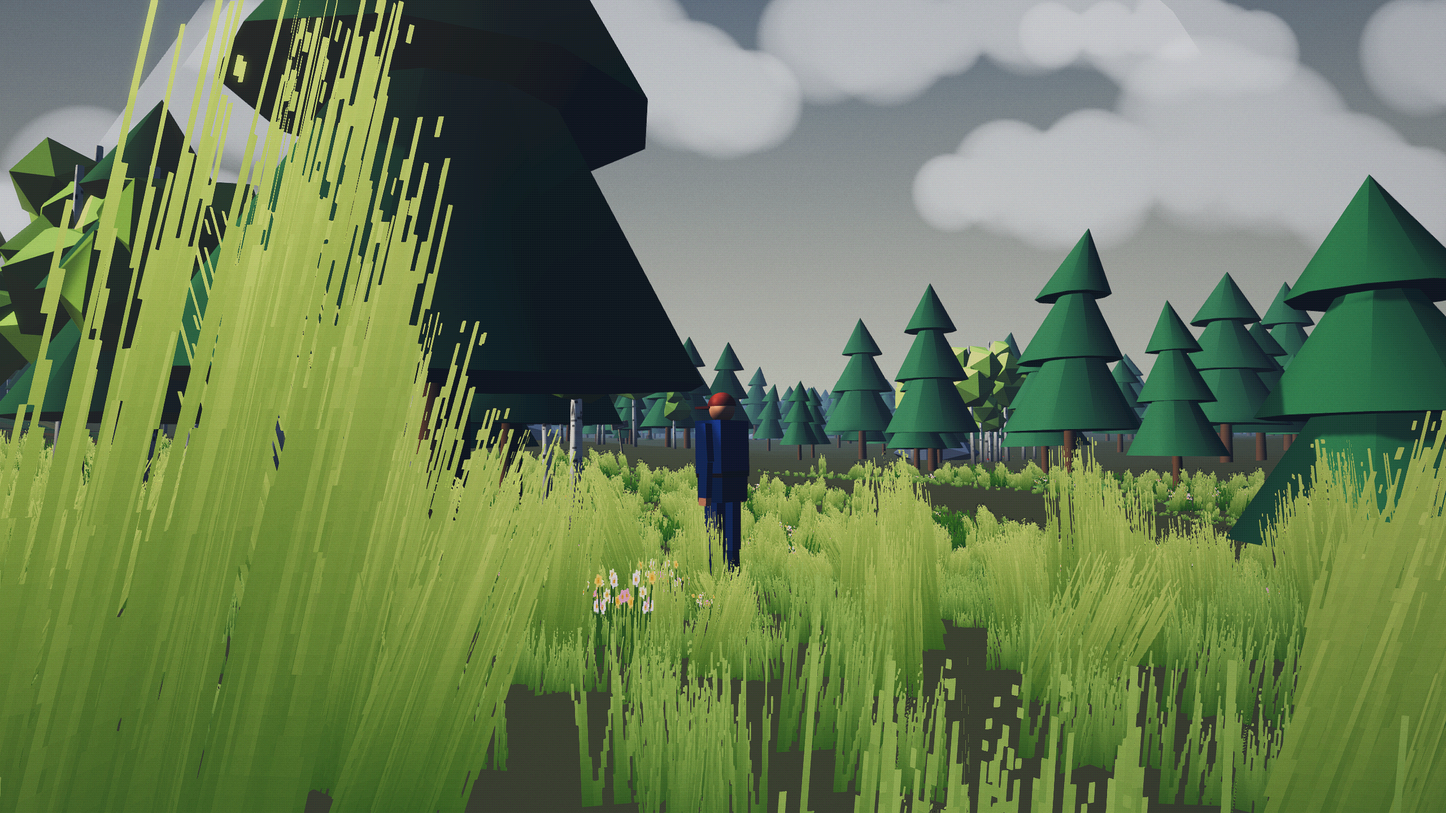
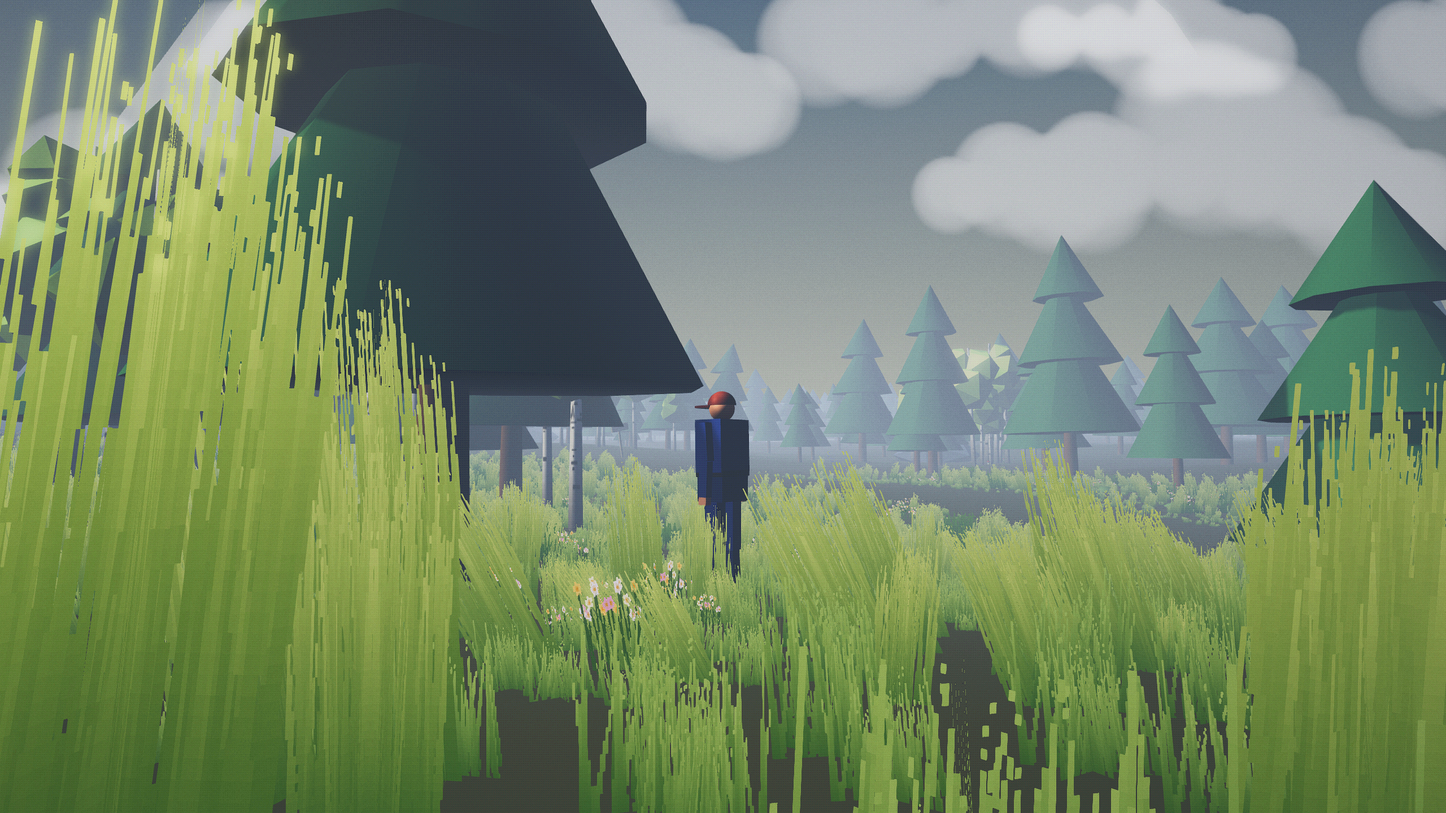
LA ROUTE : brume de vallée étagée et bloom généreux
- world/haze.js : plugin matériau qui ajoute une nappe basse au brouillard.
  Le fog exponentiel de Babylon noie tout uniformément ; ici la densité
  décroît avec l'altitude, donc le sol et les troncs du lointain
  disparaissent pendant que les cimes émergent. C'est ce qui SÉPARE les
  trois plans — premier plan vif, forêt de mi-distance, crêtes bleu pâle.
  La nappe s'épaissit au petit matin, sous l'averse et par temps de brume,
  et prend la couleur du brouillard du moment.
- post.js : bloom nettement plus généreux (seuil 0,62 au lieu de 0,82,
  poids 0,42 au lieu de 0,16) — c'est lui qui fait respirer l'herbe à
  contre-jour, les trouées de ciel et l'eau au soleil.
- Captures de contrôle 1440p refaites.

Claude-Session: https://claude.ai/code/session_01XWhNifPuTPP1yCtC4v4JtE

diff --git a/la-route/src/world/haze.js b/la-route/src/world/haze.js
@@ -1,0 +1,61 @@
+/**
+ * La brume de vallée — un plugin matériau qui ÉTAGE les plans. Le brouillard
+ * exponentiel de Babylon noie tout uniformément avec la distance ; ici on
+ * ajoute une nappe basse : plus un fragment est proche du sol, plus il se
+ * fond dans la brume. Résultat, les troncs et le sol du lointain disparaissent
+ * pendant que les cimes émergent — c'est exactement ce qui sépare le premier
+ * plan, la forêt de mi-distance et les crêtes du fond.
+ * S'applique aux matériaux du décor ; le ciel et les nuages en sont exclus.
+ */
+import { MaterialPluginBase } from '@babylonjs/core/Materials/materialPluginBase.js';
+import { hazeShared } from '../vegetation/wind.js';
+
+export class HazePlugin extends MaterialPluginBase {
+  constructor(material) {
+    super(material, 'Haze', 210, { HAZE: false });
+    this._enable(true);
+  }
+  getClassName() { return 'HazePlugin'; }
+  prepareDefines(defines) { defines.HAZE = true; }
+  getUniforms() {
+    return {
+      ubo: [
+        { name: 'hzD', size: 1, type: 'float' },
+        { name: 'hzTop', size: 1, type: 'float' },
+        { name: 'hzCol', size: 3, type: 'vec3' },
+      ],
+      fragment: `#ifdef HAZE
+uniform float hzD; uniform float hzTop; uniform vec3 hzCol;
+#endif`,
+    };
+  }
+  bindForSubMesh(ubo) {
+    ubo.updateFloat('hzD', hazeShared.d);
+    ubo.updateFloat('hzTop', hazeShared.top);
+    ubo.updateFloat3('hzCol', hazeShared.r, hazeShared.g, hazeShared.b);
+  }
+  getCustomCode(shaderType) {
+    if (shaderType !== 'fragment') return null;
+    return {
+      CUSTOM_FRAGMENT_BEFORE_FRAGCOLOR: `
+#ifdef HAZE
+        float hzDist = length(vEyePosition.xyz - vPositionW);
+        // densité qui décroît avec l'altitude : la nappe est au sol
+        float hzH = clamp(1.0 - vPositionW.y / hzTop, 0.0, 1.0);
+        float hzF = 1.0 - exp(-hzDist * hzD * (0.25 + 1.55 * hzH * hzH));
+        color.rgb = mix(color.rgb, hzCol, clamp(hzF, 0.0, 0.93));
+#endif
+`,
+    };
+  }
+}
+
+/** applique la brume à tous les matériaux du décor (jamais au ciel) */
+export function applyHaze(scene, skip) {
+  const skipSet = new Set(skip);
+  for (const m of scene.materials) {
+    if (skipSet.has(m.name)) continue;
+    if (m.fogEnabled === false) continue;              // ciel, nuages, rais
+    new HazePlugin(m);
+  }
+}

diff --git a/la-route/src/main.js b/la-route/src/main.js
@@ -28,6 +28,8 @@ import { buildSky } from './world/sky.js';
 import { buildClouds } from './world/clouds.js';
 import { buildShafts } from './world/shafts.js';
 import { buildWater } from './world/water.js';
+import { applyHaze } from './world/haze.js';
+import { hazeShared } from './vegetation/wind.js';
 import { buildVan } from './vehicle/van.js';
 import { createDust } from './vehicle/dust.js';
 import { buildDriver } from './character/driver.js';
@@ -382,6 +384,8 @@ async function start() {
   // 6 lumières simultanées par matériau (défaut 4) : soleil + hémisphérique
   // + phares/feu/garage — sinon les lumières d'interaction sont ignorées
   for (const m of scene.materials) m.maxSimultaneousLights = 6;
+  // la brume de vallée étage les plans (posée en dernier, sur tout le décor)
+  applyHaze(scene, ['skyMat', 'waterFoamM', 'waterRipM']);
 
   const overlay = createOverlay(engine, scene, { sun, fog: scene, post, retro });
 
@@ -568,6 +572,13 @@ async function start() {
     // fait 17 m, il en faut plus pour qu'aucune goutte ne traverse le toit.
     weather.update(dt, focAx, inside ? GARAGE.z0 - 26 : focAz);
     clouds.update(dt, weather.sunHeight(), weather.cloudiness(), focAx, focAz, state.camYaw);
+    // la nappe de brume prend la couleur du brouillard du moment et
+    // s'épaissit au petit matin, sous l'averse et par temps de brume
+    hazeShared.d = 0.0055 + weather.rainEase() * 0.004
+      + Math.max(0, 0.24 - weather.sunHeight()) * 0.016;
+    hazeShared.r = scene.fogColor.r * 1.18 + 0.1;
+    hazeShared.g = scene.fogColor.g * 1.18 + 0.12;
+    hazeShared.b = scene.fogColor.b * 1.18 + 0.16;
     water.update(dt, weather.sunHeight());
     shafts.update(dt, focAx, focAz, weather.sunHeight(), weather.sunAzimuth(),
       state.camYaw, 1 - weather.cloudiness() * 0.8);

diff --git a/la-route/src/post.js b/la-route/src/post.js
@@ -15,11 +15,13 @@ export function createPost(scene, camera) {
   pipe.fxaaEnabled = true;
   pipe.samples = 4;                       // MSAA sur la cible de la chaîne
 
-  pipe.bloomEnabled = true;               // halo discret des feux et du ciel
-  pipe.bloomThreshold = 0.82;
-  pipe.bloomWeight = 0.16;
-  pipe.bloomKernel = 48;
-  pipe.bloomScale = 0.6;
+  // bloom généreux : c'est lui qui fait « respirer » les hautes lumières —
+  // l'herbe à contre-jour, les trouées de ciel, l'eau au soleil
+  pipe.bloomEnabled = true;
+  pipe.bloomThreshold = 0.62;
+  pipe.bloomWeight = 0.42;
+  pipe.bloomKernel = 64;
+  pipe.bloomScale = 0.75;
 
   pipe.grainEnabled = true;               // grain pellicule, animé
   pipe.grain.intensity = 5;

diff --git a/la-route/src/vegetation/wind.js b/la-route/src/vegetation/wind.js
@@ -19,6 +19,13 @@ export const windClock = { t: 0 };
  */
 export const sunShared = { x: -0.62, y: -0.3, z: -0.75 };
 
+/**
+ * Brume de vallée partagée : densité et couleur de la nappe basse, tenues à
+ * jour par le cycle météo. C'est elle qui étage les plans — le sol lointain
+ * se noie pendant que les cimes émergent.
+ */
+export const hazeShared = { d: 0.02, top: 26, r: 0.62, g: 0.7, b: 0.82 };
+
 export class WindPlugin extends MaterialPluginBase {
   constructor(material, opts = {}) {
     super(material, 'Wind', 190, { WIND: false });
